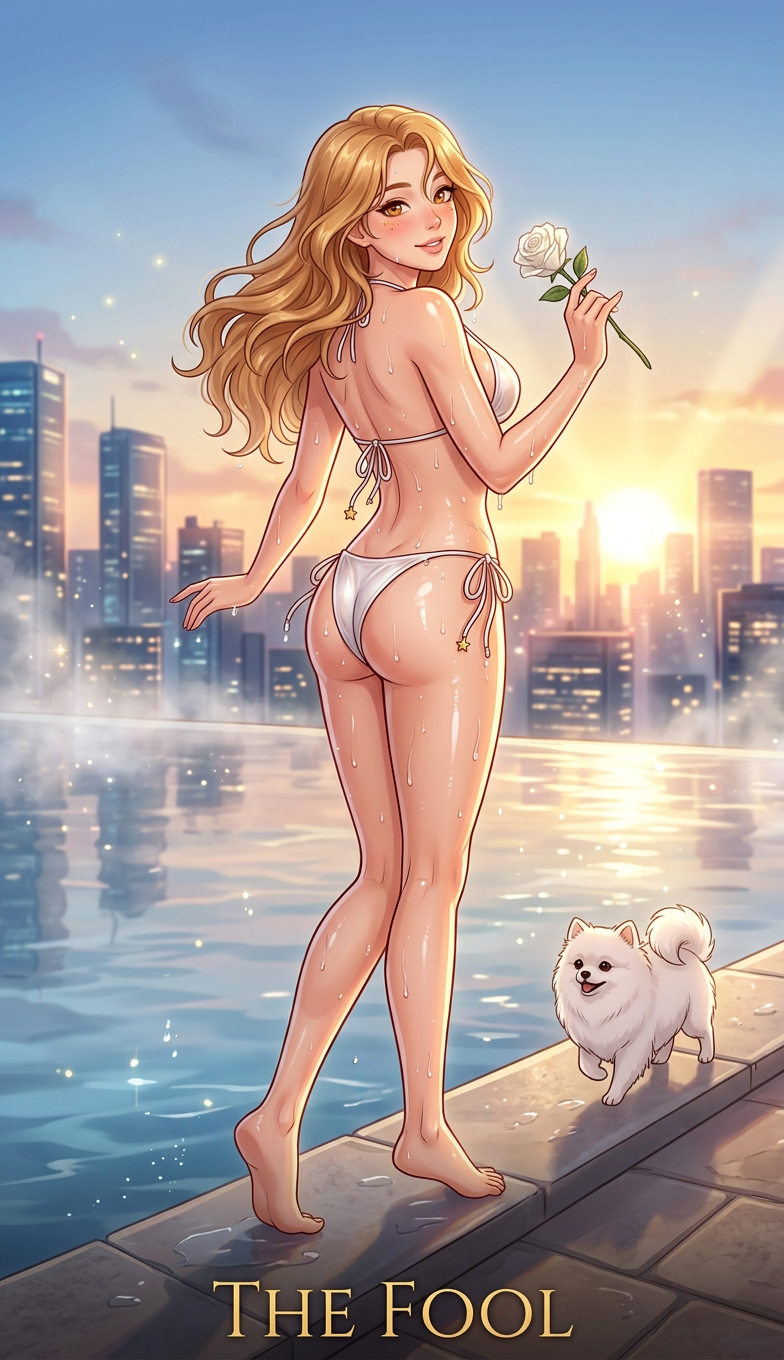
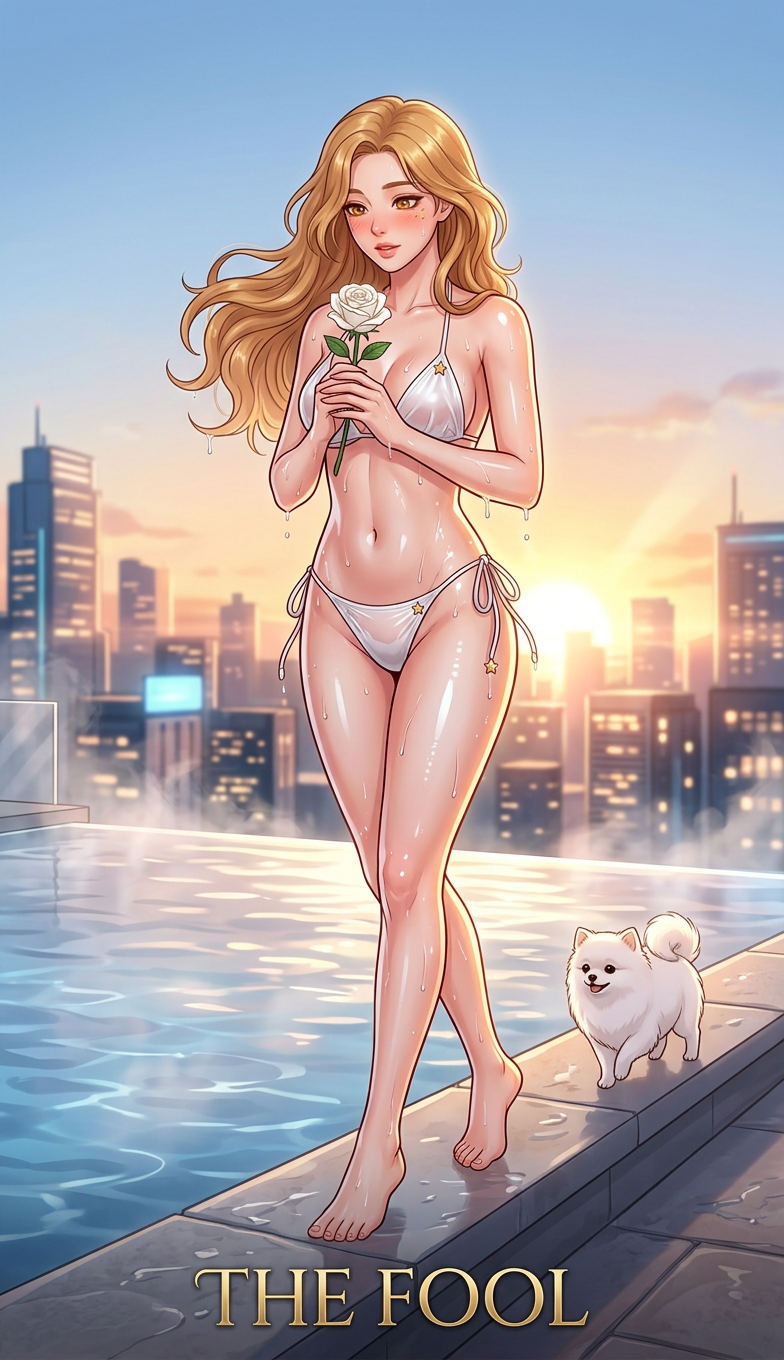
The Fool v3: absorbed in the rose, unaware she's near the pool edge (classic Fool)
Pose now: eyes fixed dreamily on the white rose cupped in both hands, chin
dipped, one heel hovering mid-step over the last stretch of coping before the
infinity edge spills into open air — the classic about-to-step-off Fool
composition; Pomeranian still trotting behind her. Regenerated 00-fool.png and
both contact sheets.

diff --git a/build_prompts_v2.py b/build_prompts_v2.py
@@ -79,12 +79,13 @@ ALLURING_POSES = [
 # Pose ghi đè theo yêu cầu riêng cho từng lá (ưu tiên hơn xoay vòng)
 POSE_OVERRIDES = {
     # The Fool: đi trên mép bể bơi vô cực sân thượng, cầm hoa hồng trắng, chó theo sau
-    "00-fool": "walking barefoot along the infinity pool's wet stone coping like a dancer on a "
-               "wire, one foot precisely before the other, hips swaying in a soft alluring "
-               "S-curve, torso lightly arched, one hand raised gracefully holding the single "
-               "white rose, glancing back over her shoulder at the viewer with a carefree "
-               "inviting smile while her white Pomeranian puppy trots faithfully behind her "
-               "along the pool rim",
+    "00-fool": "walking barefoot along the wet stone coping of the rooftop infinity pool, near "
+               "the very END of the pool edge without noticing — her eyes fixed dreamily on the "
+               "white rose cupped in both hands before her chest, chin dipped, a soft absorbed "
+               "smile, completely unaware how close the stone coping is to running out; one heel "
+               "hovering mid-step over the last stretch of stone, hips swaying in a soft "
+               "alluring S-curve, water droplets still dripping from her fingertips and wet hair, "
+               "while her white Pomeranian puppy trots faithfully behind her along the pool rim",
 }
 
 # ---------------------------------------------------------------------------
@@ -96,10 +97,12 @@ BATHROOM_STYLES = {
     # ------------------------- MAJOR ARCANA (22) -------------------------
     "00-fool": ("Rooftop infinity pool sunrise",
         "a playful 19-year-old streamer on a high-rise rooftop infinity pool at sunrise: the pool "
-        "water merging seamlessly with the glowing cyberpunk sunrise skyline beyond the edge, a "
-        "long wet stone pool coping stretching in a clean line, steam curling off the warm water, "
-        "skyline lights reflecting in the calm pool surface, a cute white Pomeranian puppy "
-        "trotting faithfully behind her along the pool rim, a single fresh white rose in her hand"),
+        "water merging seamlessly with the glowing cyberpunk sunrise skyline beyond the edge, the "
+        "long wet stone pool coping reaching its FINAL stretch — only a few steps of stone left "
+        "before the infinity edge spills into open air above the city, steam curling off the warm "
+        "water, skyline lights reflecting in the calm pool surface, a cute white Pomeranian puppy "
+        "trotting faithfully behind her along the pool rim, a single fresh white rose cupped in "
+        "her hands as she gazes at it, oblivious"),
     "01-magician": ("Marble vanity mirror wall",
         "a charismatic 22-year-old streamer in a marble magician's bathroom: a long double "
         "vanity beneath a floor-to-ceiling backlit mirror wall, warm brass fixtures, exactly "

diff --git a/prompts_frameless_v2/00-fool.md b/prompts_frameless_v2/00-fool.md
@@ -6,7 +6,7 @@
 - **Reference style/contour/lettering:** `major_08_strength.png`
 - **Reference wet fabric/swimwear:** `test_card_17_the_star.png`
 - **Outfit:** soaking-wet pearl-white micro string bikini with tiny gold star charms (opaque swimwear, no see-through)
-- **Pose gợi cảm:** walking barefoot along the infinity pool's wet stone coping like a dancer on a wire, one foot precisely before the other, hips swaying in a soft alluring S-curve, torso lightly arched, one hand raised gracefully holding the single white rose, glancing back over her shoulder at the viewer with a carefree inviting smile while her white Pomeranian puppy trots faithfully behind her along the pool rim
+- **Pose gợi cảm:** walking barefoot along the wet stone coping of the rooftop infinity pool, near the very END of the pool edge without noticing — her eyes fixed dreamily on the white rose cupped in both hands before her chest, chin dipped, a soft absorbed smile, completely unaware how close the stone coping is to running out; one heel hovering mid-step over the last stretch of stone, hips swaying in a soft alluring S-curve, water droplets still dripping from her fingertips and wet hair, while her white Pomeranian puppy trots faithfully behind her along the pool rim
 - **Background mode:** bathroom · **Giáp:** đã loại bỏ hoàn toàn (strip + negative)
 
 ## Prompt
@@ -22,9 +22,9 @@ GARMENT-TO-BODY DETAIL: thin strap tension lines pressing gently into shoulders 
 
 WET FABRIC (match reference 2): soaking-wet pearl-white micro string bikini with tiny gold star charms — waterlogged darkened tone with a glossy wet sheen, fabric fully opaque, clinging like a second skin with zero loose folds, plastered wet wrinkles, water droplets beading on the fabric surface, tiny drips falling from the fabric edges; whole body wet with droplets and thin rivulets, wet gleaming hair strands; she just rose out of the water or stepped out of the shower, so the drenched look reads naturally.
 
-FIGURE: 19 years old, build: **A** petite & lithe, eo nhỏ, bước chân nhẹ như gió, hair: loose wind-tossed honey-blonde waves down to her shoulder blades, sunlit and carefree, eyes: honey-amber, doe, tròn long lanh, ngây thơ không phòng bị, skin: warm peach with glossy wet highlights, signature: 3 tàn nhang vàng nhỏ dưới mắt trái, aura: gió mai, mật ong, vực thẳm mời gọi. Alluring pose: walking barefoot along the infinity pool's wet stone coping like a dancer on a wire, one foot precisely before the other, hips swaying in a soft alluring S-curve, torso lightly arched, one hand raised gracefully holding the single white rose, glancing back over her shoulder at the viewer with a carefree inviting smile while her white Pomeranian puppy trots faithfully behind her along the pool rim. Barefoot; blushing cheeks, cat eyeliner, softly parted lips.
+FIGURE: 19 years old, build: **A** petite & lithe, eo nhỏ, bước chân nhẹ như gió, hair: loose wind-tossed honey-blonde waves down to her shoulder blades, sunlit and carefree, eyes: honey-amber, doe, tròn long lanh, ngây thơ không phòng bị, skin: warm peach with glossy wet highlights, signature: 3 tàn nhang vàng nhỏ dưới mắt trái, aura: gió mai, mật ong, vực thẳm mời gọi. Alluring pose: walking barefoot along the wet stone coping of the rooftop infinity pool, near the very END of the pool edge without noticing — her eyes fixed dreamily on the white rose cupped in both hands before her chest, chin dipped, a soft absorbed smile, completely unaware how close the stone coping is to running out; one heel hovering mid-step over the last stretch of stone, hips swaying in a soft alluring S-curve, water droplets still dripping from her fingertips and wet hair, while her white Pomeranian puppy trots faithfully behind her along the pool rim. Barefoot; blushing cheeks, cat eyeliner, softly parted lips.
 
-SCENE & SYMBOLISM (Rooftop infinity pool sunrise): a playful 19-year-old streamer on a high-rise rooftop infinity pool at sunrise: the pool water merging seamlessly with the glowing cyberpunk sunrise skyline beyond the edge, a long wet stone pool coping stretching in a clean line, steam curling off the warm water, skyline lights reflecting in the calm pool surface, a cute white Pomeranian puppy trotting faithfully behind her along the pool rim, a single fresh white rose in her hand. Tarot emblem integrated naturally: a white rose. COUNT LOCK: This card contains NO loose suit objects in the scene. Do not add random floating or decorative cups, swords, wands, or pentacles.
+SCENE & SYMBOLISM (Rooftop infinity pool sunrise): a playful 19-year-old streamer on a high-rise rooftop infinity pool at sunrise: the pool water merging seamlessly with the glowing cyberpunk sunrise skyline beyond the edge, the long wet stone pool coping reaching its FINAL stretch — only a few steps of stone left before the infinity edge spills into open air above the city, steam curling off the warm water, skyline lights reflecting in the calm pool surface, a cute white Pomeranian puppy trotting faithfully behind her along the pool rim, a single fresh white rose cupped in her hands as she gazes at it, oblivious. Tarot emblem integrated naturally: a white rose. COUNT LOCK: This card contains NO loose suit objects in the scene. Do not add random floating or decorative cups, swords, wands, or pentacles.
 
 DEPTH & LIGHT: soft steam and light-shaft layers diffusing the scene's accent lighting (LED, neon, candle, skylight or sunrise glow), wet tile and mirror reflections on soaked skin, cinematic warm-cool contrast, water droplets sparkling in the light shafts, faint golden sparkles in the mist.
 
